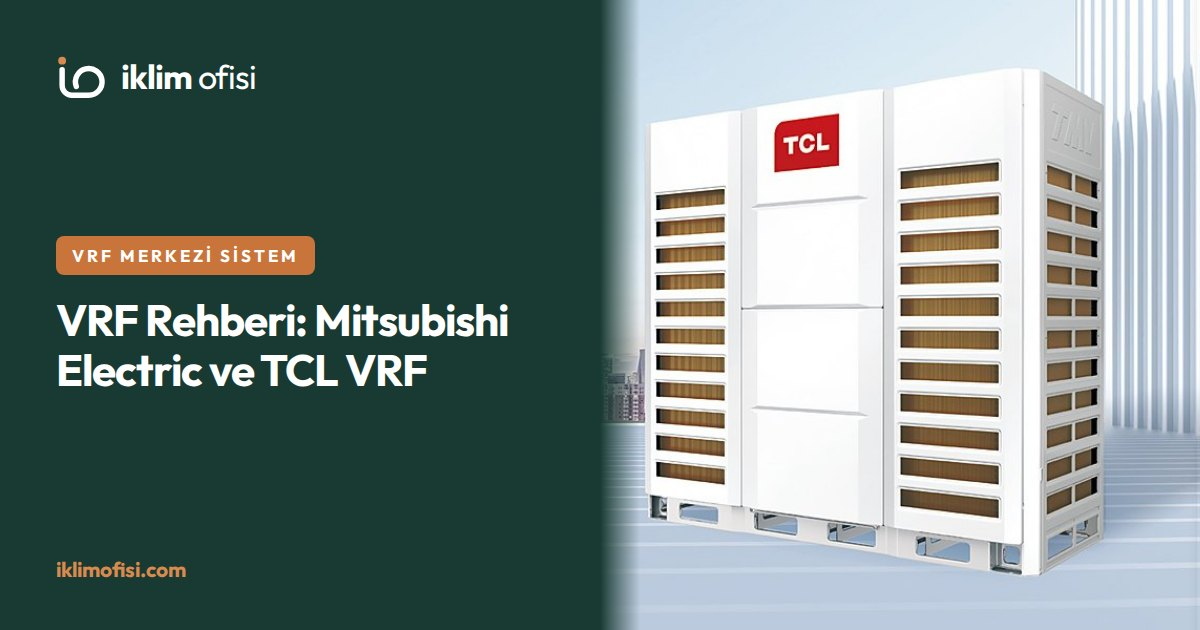
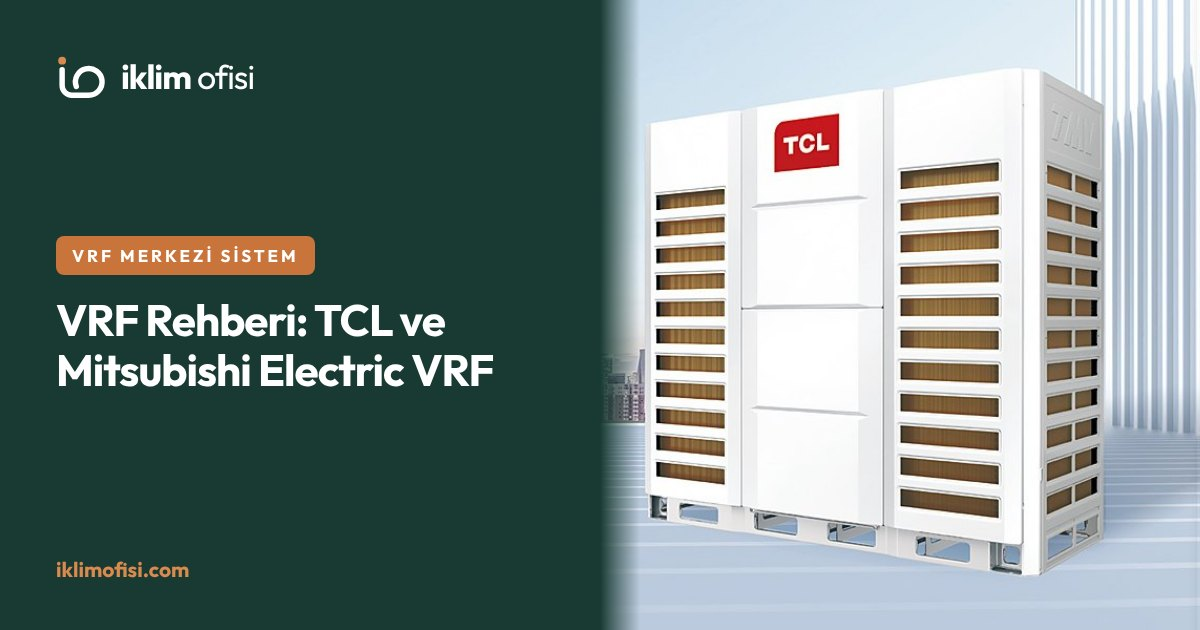
TCL değerleri ve TCL önce sıralaması

diff --git a/app/page.tsx b/app/page.tsx
@@ -43,7 +43,7 @@ export default async function Home() {
                   </h1>
 
                   <p className="text-sm sm:text-base text-slate-600 max-w-2xl leading-relaxed">
-                    {sirket.unvan}; konut, ofis, otel ve ticari yapılarda Mitsubishi Electric ve TCL VRF ve klima sistemleri, multi klima, ısı pompası, Fraenkische yerden ısıtma ve kazan dairesi yenileme projelerini keşiften montaja anahtar teslim yürütür.
+                    {sirket.unvan}; konut, ofis, otel ve ticari yapılarda TCL ve Mitsubishi Electric VRF ve klima sistemleri, multi klima, ısı pompası, Fraenkische yerden ısıtma ve kazan dairesi yenileme projelerini keşiften montaja anahtar teslim yürütür.
                   </p>
 
                   {/* Butonlar */}
@@ -69,25 +69,26 @@ export default async function Home() {
                 <div className="bg-slate-900 text-white rounded-2xl p-8 shadow-xl border border-slate-800 space-y-6">
                   <div className="flex justify-between items-center border-b border-slate-800 pb-4">
                     <div>
-                      <p className="text-[11px] font-bold text-teal-400 uppercase tracking-widest">İklim Ofisi Çalışma Aralığı</p>
-                      <h3 className="text-lg font-bold text-white mt-0.5">-20°C ile +55°C Arası Tam Kontrol</h3>
+                      <p className="text-[11px] font-bold text-teal-400 uppercase tracking-widest">TCL VRF Çalışma Aralığı</p>
+                      <h3 className="text-lg font-bold text-white mt-0.5">-30°C ile +56°C Arası Tam Kontrol</h3>
                     </div>
                     <span className="w-3 h-3 rounded-full bg-emerald-500 shadow-sm shadow-emerald-500/50" />
                   </div>
 
                   <p className="text-xs text-slate-300 leading-relaxed">
-                    Dış hava koşulları ne olursa olsun, Inverter VRF ve Isı Pompası teknolojisiyle iç mekanlarda ideal nem ve sıcaklık dengesini sabit tutuyoruz.
+                    TCL TMV6+ Super VRF, ısıtmada -30°C&apos;ye, soğutmada +56°C&apos;ye kadar dış hava sıcaklığında çalışır. Dış hava koşulları ne olursa olsun iç mekânda ideal nem ve sıcaklık dengesini sabit tutuyoruz.
                   </p>
 
                   {/* Sıcaklık Skalası */}
                   <div className="bg-slate-950 p-4 rounded-xl border border-slate-800/80 space-y-3">
                     <div className="flex justify-between text-[11px] font-mono font-bold text-slate-400">
-                      <span className="text-cyan-400">-20°C Soğuk</span>
+                      <span className="text-cyan-400">-30°C Soğuk</span>
                       <span className="text-teal-300">İdeal 22°C</span>
-                      <span className="text-amber-400">+55°C Sıcak</span>
+                      <span className="text-amber-400">+56°C Sıcak</span>
                     </div>
                     <div className="h-2 w-full bg-gradient-to-r from-cyan-500 via-teal-400 to-amber-500 rounded-full relative">
-                      <div className="absolute left-1/2 -top-1 w-4 h-4 rounded-full bg-white border-2 border-slate-900 shadow-md transform -translate-x-1/2" />
+                      {/* 22°C, -30…+56°C skalasında %60 noktası */}
+                      <div style={{ left: "60%" }} className="absolute -top-1 w-4 h-4 rounded-full bg-white border-2 border-slate-900 shadow-md transform -translate-x-1/2" />
                     </div>
                     <p className="text-[10px] text-center text-slate-400 font-mono">
                       Akıllı Termostat & Inverter Kompresör Hassasiyeti
@@ -97,7 +98,7 @@ export default async function Home() {
                   <div className="grid grid-cols-2 gap-3 text-xs pt-1">
                     <div className="p-3 rounded-lg bg-slate-800/60 border border-slate-800">
                       <p className="font-bold text-slate-200">VRF Merkezi Sistem</p>
-                      <p className="text-[10px] text-slate-400 mt-0.5">Mitsubishi Electric · TCL</p>
+                      <p className="text-[10px] text-slate-400 mt-0.5">TCL · Mitsubishi Electric</p>
                     </div>
                     <div className="p-3 rounded-lg bg-slate-800/60 border border-slate-800">
                       <p className="font-bold text-slate-200">Klima & Multi Klima</p>
@@ -134,7 +135,7 @@ export default async function Home() {
                 <p className="text-xs font-bold tracking-widest text-teal-700 uppercase">20+ YILLIK MÜHENDİSLİK GÜCÜ</p>
                 <h2 className="text-3xl font-bold text-slate-900">Mühendislik Kökenli Yönetim Anlayışı</h2>
                 <p className="text-sm text-slate-600 leading-relaxed">
-                  20 yılı aşkın kıdemli Makine Mühendisi ve Proje Mühendisi kurucu ortaklarımızın öncülüğünde; Mitsubishi Electric ve TCL VRF ve klima sistemleri, ısı pompaları, Fraenkische yerden ısıtma ve Buderus kazan dairesi çözümleriyle yapının ısı kayıp/kazanç hesabına tam uygun iklimlendirme ve ısıtma sistemleri kuruyoruz.
+                  20 yılı aşkın kıdemli Makine Mühendisi ve Proje Mühendisi kurucu ortaklarımızın öncülüğünde; TCL ve Mitsubishi Electric VRF ve klima sistemleri, ısı pompaları, Fraenkische yerden ısıtma ve Buderus kazan dairesi çözümleriyle yapının ısı kayıp/kazanç hesabına tam uygun iklimlendirme ve ısıtma sistemleri kuruyoruz.
                 </p>
                 <div>
                   <Link href="/hakkimizda" className="inline-block text-xs font-bold text-teal-700 hover:underline">
@@ -147,7 +148,7 @@ export default async function Home() {
                 <h4 className="font-bold text-slate-900 text-sm">Disiplinli Mühendislik İlkelerimiz</h4>
                 <div className="space-y-2 text-xs text-slate-600">
                   <p>✓ 20+ yıllık saha tecrübesiyle hatasız kapasite seçimi</p>
-                  <p>✓ Mitsubishi Electric ve TCL VRF & klima uzmanlığı</p>
+                  <p>✓ TCL ve Mitsubishi Electric VRF & klima uzmanlığı</p>
                   <p>✓ Isı pompası, Fraenkische yerden ısıtma ve kazan dairesi yenileme</p>
                   <p>✓ AutoCAD tabanlı çizim, metraj ve şeffaf bütçelendirme</p>
                   <p>✓ Tesisatta azot basınç testi, vakumlama ve 2 yıl tam garanti</p>
@@ -175,8 +176,8 @@ export default async function Home() {
 
             <div className="grid md:grid-cols-2 lg:grid-cols-3 gap-6">
               {[
-                { no: "01", baslik: "VRF / VRV Sistemleri", metin: "Mitsubishi Electric City Multi ve TCL VRF ile otel, plaza, hastane ve konut projelerinde merkezi iklimlendirme.", href: "/hizmetler#vrf", one: true },
-                { no: "02", baslik: "Klima & Multi Klima", metin: "Mitsubishi Electric ve TCL duvar tipi, multi split, kaset ve kanallı klimalarda keşif, kapasite hesabı ve montaj.", href: "/hizmetler#klima", one: true },
+                { no: "01", baslik: "VRF / VRV Sistemleri", metin: "TCL VRF ve Mitsubishi Electric City Multi ile otel, plaza, hastane ve konut projelerinde merkezi iklimlendirme.", href: "/hizmetler#vrf", one: true },
+                { no: "02", baslik: "Klima & Multi Klima", metin: "TCL ve Mitsubishi Electric duvar tipi, multi split, kaset ve kanallı klimalarda keşif, kapasite hesabı ve montaj.", href: "/hizmetler#klima", one: true },
                 { no: "03", baslik: "Isı Pompası", metin: "Konut ve villalar için hava kaynaklı ısı pompaları. Buderus ve projeye uygun diğer markalarla anahtar teslim.", href: "/hizmetler#isi-pompasi", one: true },
                 { no: "04", baslik: "Yerden Isıtma Sistemleri", metin: "Fraenkische yerden ısıtma boru ve kolektör sistemleri; ısı pompası ve kazanla birlikte projelendirme.", href: "/hizmetler#yerden-isitma", one: true },
                 { no: "05", baslik: "Kazan Dairesi Yenileme", metin: "Eski kazan dairelerinin Buderus yoğuşmalı kaskad kazanlarla yenilenmesi, pompa ve kollektör grupları.", href: "/hizmetler#kazan-dairesi", one: false },

diff --git a/app/urunler/page.tsx b/app/urunler/page.tsx
@@ -8,9 +8,9 @@ import { getSirketAyarlari } from "@/lib/sirket";
 export const dynamic = "force-dynamic";
 
 export const metadata: Metadata = {
-  title: "Ürünler — Mitsubishi Electric, TCL VRF & Klima, Isı Pompası, Yerden Isıtma",
+  title: "Ürünler — TCL, Mitsubishi Electric VRF & Klima, Isı Pompası, Yerden Isıtma",
   description:
-    "Mitsubishi Electric ve TCL VRF, klima ve multi klima sistemleri, Buderus ve diğer markalarda ısı pompaları, Fraenkische yerden ısıtma, Buderus yoğuşmalı kazanlar, havalandırma ve AIRNEX mutfak aspiratörleri.",
+    "TCL ve Mitsubishi Electric VRF, klima ve multi klima sistemleri, Buderus ve diğer markalarda ısı pompaları, Fraenkische yerden ısıtma, Buderus yoğuşmalı kazanlar, havalandırma ve AIRNEX mutfak aspiratörleri.",
   alternates: { canonical: "/urunler" },
 };
 
@@ -32,10 +32,10 @@ const urunKategorileri: {
     gorsel: "/urunler/urun-vrf.jpg",
     gorselAlt: "TCL TMV6+ Super Serisi VRF dış ünitesi",
     kategori: "MERKEZİ İKLİMLENDİRME",
-    baslik: "Mitsubishi Electric & TCL VRF Sistemleri",
-    aciklama: "Otel, plaza, hastane ve binalarda her odayı bağımsız iklimlendiren Mitsubishi Electric City Multi ve TCL TMV serisi VRF dış/iç ünite grupları.",
-    urunler: ["Mitsubishi Electric City Multi VRF", "TCL TMV Serisi VRF Sistemleri", "Heat Pump & Heat Recovery Dış Üniteler", "Y-Branch & Joint Bağlantı Kitleri"],
-    markalar: "Mitsubishi Electric, TCL",
+    baslik: "TCL & Mitsubishi Electric VRF Sistemleri",
+    aciklama: "Otel, plaza, hastane ve binalarda her odayı bağımsız iklimlendiren TCL TMV serisi ve Mitsubishi Electric City Multi VRF dış/iç ünite grupları.",
+    urunler: ["TCL TMV Serisi VRF Sistemleri", "Mitsubishi Electric City Multi VRF", "Heat Pump & Heat Recovery Dış Üniteler", "Y-Branch & Joint Bağlantı Kitleri"],
+    markalar: "TCL, Mitsubishi Electric",
     detay: { href: "/tcl-vrf", etiket: "TCL VRF Ürün Detayları →", katalog: "/kataloglar/tcl-vrf-tmv6-super-katalog-2026.pdf" },
   },
   {
@@ -43,10 +43,10 @@ const urunKategorileri: {
     gorsel: "/urunler/urun-bireysel-klima.jpg",
     gorselAlt: "Oturma odasında duvar tipi klima iç ünitesi",
     kategori: "BİREYSEL İKLİMLENDİRME",
-    baslik: "Mitsubishi Electric & TCL Klima ve Multi Klima",
-    aciklama: "Konut ve ofisler için Mitsubishi Electric ve TCL yüksek verimli Inverter duvar tipi klimalar ve tek dış üniteye birden çok iç ünite bağlanan multi klima sistemleri.",
-    urunler: ["Mitsubishi Electric Inverter Duvar Tipi Klimalar", "TCL Inverter Duvar Tipi Klimalar", "Multi-Split Çoklu İç Ünite Sistemleri"],
-    markalar: "Mitsubishi Electric, TCL",
+    baslik: "TCL & Mitsubishi Electric Klima ve Multi Klima",
+    aciklama: "Konut ve ofisler için TCL ve Mitsubishi Electric yüksek verimli Inverter duvar tipi klimalar ve tek dış üniteye birden çok iç ünite bağlanan multi klima sistemleri.",
+    urunler: ["TCL Inverter Duvar Tipi Klimalar", "Mitsubishi Electric Inverter Duvar Tipi Klimalar", "Multi-Split Çoklu İç Ünite Sistemleri"],
+    markalar: "TCL, Mitsubishi Electric",
   },
   {
     id: "ticari-klima",
@@ -56,7 +56,7 @@ const urunKategorileri: {
     baslik: "Ticari Tip Klimalar",
     aciklama: "Mağaza, cafe, restoran ve açık ofis alanları için 4 yöne üflemeli kaset, kanallı gizli tavan, konsol ve salon tipi cihazlar.",
     urunler: ["4 Yöne Üflemeli Kaset Tipi Klimalar", "Gizli Tavan Tipi Kanallı Klimalar", "Konsol Tipi Klimalar", "Salon Tipi Klimalar"],
-    markalar: "Mitsubishi Electric, TCL",
+    markalar: "TCL, Mitsubishi Electric",
   },
   {
     id: "isi-pompasi",
@@ -148,13 +148,13 @@ export default async function UrunlerPage() {
               MEKANİK TESİSAT & İKLİMLENDİRME ÜRÜNLERİ
             </div>
             <h1 className="text-3xl sm:text-4xl lg:text-5xl font-bold tracking-tight text-slate-900 leading-[1.15]">
-              Mitsubishi Electric ve TCL <br />
+              TCL ve Mitsubishi Electric <br />
               <span className="text-teal-700 underline decoration-teal-300/80 decoration-4 underline-offset-8">
                 VRF, Klima ve Isı Pompası.
               </span>
             </h1>
             <p className="text-base text-slate-600 leading-relaxed pt-2">
-              {sirket.unvan}; Mitsubishi Electric ve TCL VRF ve klima sistemlerinden ısı pompalarına, Fraenkische yerden ısıtmadan Buderus yoğuşmalı kazanlara, havalandırmadan AIRNEX mutfak aspiratörlerine kadar projenizin ürün ihtiyacını mühendislik güvencesiyle sağlar.
+              {sirket.unvan}; TCL ve Mitsubishi Electric VRF ve klima sistemlerinden ısı pompalarına, Fraenkische yerden ısıtmadan Buderus yoğuşmalı kazanlara, havalandırmadan AIRNEX mutfak aspiratörlerine kadar projenizin ürün ihtiyacını mühendislik güvencesiyle sağlar.
             </p>
           </div>
 

diff --git a/app/blog/data.ts b/app/blog/data.ts
@@ -281,25 +281,25 @@ export const MAKALELER: Makale[] = [
   },
   {
     slug: "vrf-rehberi-mitsubishi-electric-ve-tcl",
-    baslik: "VRF İklimlendirme Rehberi: Mitsubishi Electric ve TCL VRF Teknolojileri",
+    baslik: "VRF İklimlendirme Rehberi: TCL ve Mitsubishi Electric VRF Teknolojileri",
     kategori: "VRF MERKEZİ SİSTEM",
     tarih: "01 Eylül 2026",
     okumaSuresi: "5 dk okuma",
     gorsel: "/urunler/urun-vrf.jpg",
     gorselAlt: "TCL VRF dış ünitesi",
-    ozet: "Otel, plaza ve konut projelerinde iklimlendirme maliyetini düşüren Mitsubishi Electric City Multi ve TCL TMV serisi VRF sistemlerinin mühendislik bakışıyla değerlendirmesi.",
+    ozet: "Otel, plaza ve konut projelerinde iklimlendirme maliyetini düşüren TCL TMV serisi ve Mitsubishi Electric City Multi VRF sistemlerinin mühendislik bakışıyla değerlendirmesi.",
     icerikHtml: `
       <h2>VRF / VRV İklimlendirme Nedir?</h2>
       <p>VRF (Variable Refrigerant Flow) sistemler, değişken debili soğutucu akışkan teknolojisiyle tek bir dış ünite grubuna onlarca iç ünite bağlayarak her odayı bağımsız iklimlendirmenizi sağlar.</p>
 
-      <h2>Mitsubishi Electric City Multi VRF Üstünlükleri</h2>
-      <p>Mitsubishi Electric VRF sistemleri, Inverter kompresör yapısı ve yüksek COP/EER verimlilik değerleri ile öne çıkar. Düşük dış hava sıcaklıklarında dahi yüksek ısıtma performansı sunan Zubadan teknolojisi, otel ve plaza projelerinde güçlü bir konfor sağlar.</p>
-
       <h2>TCL TMV Serisi VRF Sistemleri</h2>
       <p>TCL'in yeni nesil TMV serisi VRF sistemleri, Inverter kompresör ve akıllı kontrol altyapısıyla ofis, mağaza, otel ve konut projelerinde yüksek verim ile rekabetçi yatırım maliyetini bir arada sunar. Geniş iç ünite seçenekleri sayesinde farklı mahal tiplerine esnek çözüm üretir. Model ve teknik veriler için <a href="/tcl-vrf">TCL VRF sistemleri</a> sayfamıza bakabilirsiniz.</p>
 
+      <h2>Mitsubishi Electric City Multi VRF Üstünlükleri</h2>
+      <p>Mitsubishi Electric VRF sistemleri, Inverter kompresör yapısı ve yüksek COP/EER verimlilik değerleri ile öne çıkar. Düşük dış hava sıcaklıklarında dahi yüksek ısıtma performansı sunan Zubadan teknolojisi, otel ve plaza projelerinde güçlü bir konfor sağlar.</p>
+
       <h2>Projenizde Hangi Sistemi Seçmelisiniz?</h2>
-      <p>Mühendis kadromuz; binanızın cephe yönü, cam alanları ve kullanım amacına göre m² bazlı ısı kazancı/kaybı hesabı yaparak Mitsubishi Electric veya TCL VRF sistemlerinden projenize ve bütçenize en uygun olanı projelendirir.</p>
+      <p>Mühendis kadromuz; binanızın cephe yönü, cam alanları ve kullanım amacına göre m² bazlı ısı kazancı/kaybı hesabı yaparak TCL veya Mitsubishi Electric VRF sistemlerinden projenize ve bütçenize en uygun olanı projelendirir.</p>
     `,
   },
   {
@@ -347,13 +347,13 @@ export const MAKALELER: Makale[] = [
     okumaSuresi: "3 dk okuma",
     gorsel: "/slider/slider-mitsubishi-duvar.jpg",
     gorselAlt: "Oturma odasında duvar tipi klima",
-    ozet: "Sadece metrekareye göre klima seçerken yapılan hatalar, cam yüzey faktörü ve Mitsubishi Electric / TCL Inverter teknolojisinin elektrik faturasına etkisi.",
+    ozet: "Sadece metrekareye göre klima seçerken yapılan hatalar, cam yüzey faktörü ve TCL / Mitsubishi Electric Inverter teknolojisinin elektrik faturasına etkisi.",
     icerikHtml: `
       <h2>Metrekareye Göre Klima Seçimi Neden Hatalıdır?</h2>
       <p>Aynı metrekareye sahip çatı katı bir oda ile zemin kat ara oda arasında %50 ısı yükü farkı vardır. Cam alanı, binanın yalıtımı ve cephe yönü hesaplanmadan alınan klimalar ya yetersiz kalır ya da gereksiz fazla elektrik tüketir.</p>
 
       <h2>Inverter Kompresör Nasıl Tasarruf Sağlar?</h2>
-      <p>Eski tip klimalar sürekli dur-kalk yaparak yüksek demeraj akımı çeker. Mitsubishi Electric ve TCL Inverter klimalar ise ortam sıcaklığına göre devrini ayarlayarak kesintisiz ve A+++ verimle çalışır.</p>
+      <p>Eski tip klimalar sürekli dur-kalk yaparak yüksek demeraj akımı çeker. TCL ve Mitsubishi Electric Inverter klimalar ise ortam sıcaklığına göre devrini ayarlayarak kesintisiz ve A+++ verimle çalışır.</p>
     `,
   },
 ];

diff --git a/app/hizmetler/page.tsx b/app/hizmetler/page.tsx
@@ -10,7 +10,7 @@ export const dynamic = "force-dynamic";
 export const metadata: Metadata = {
   title: "Hizmetlerimiz — VRF, Klima, Isı Pompası & Yerden Isıtma",
   description:
-    "Mitsubishi Electric ve TCL VRF sistemleri, klima ve multi klima, ısı pompası (Buderus ve diğer markalar), Fraenkische yerden ısıtma, kazan dairesi yenileme, havalandırma ve mekanik tesisatta anahtar teslim hizmet.",
+    "TCL ve Mitsubishi Electric VRF sistemleri, klima ve multi klima, ısı pompası (Buderus ve diğer markalar), Fraenkische yerden ısıtma, kazan dairesi yenileme, havalandırma ve mekanik tesisatta anahtar teslim hizmet.",
   alternates: { canonical: "/hizmetler" },
 };
 
@@ -38,7 +38,7 @@ export default async function HizmetlerPage() {
               </span>
             </h1>
             <p className="text-base text-slate-600 leading-relaxed pt-2">
-              {sirket.unvan}; Mitsubishi Electric ve TCL VRF ve klima sistemlerinden ısı pompalarına, Fraenkische yerden ısıtmadan kazan dairesi yenilemeye, havalandırmadan endüstriyel mutfak egzozuna kadar mühendislik standartlarında anahtar teslim çözümler sunar.
+              {sirket.unvan}; TCL ve Mitsubishi Electric VRF ve klima sistemlerinden ısı pompalarına, Fraenkische yerden ısıtmadan kazan dairesi yenilemeye, havalandırmadan endüstriyel mutfak egzozuna kadar mühendislik standartlarında anahtar teslim çözümler sunar.
             </p>
           </div>
 
@@ -71,13 +71,13 @@ export default async function HizmetlerPage() {
                     VRF / VRV Merkezi Sistemler
                   </h2>
                   <p className="text-xs text-slate-600 leading-relaxed">
-                    Plaza, otel, hastane ve binalarda her odayı bağımsız iklimlendiren Mitsubishi Electric City Multi ve TCL TMV VRF sistemleri; Heat Pump ve Heat Recovery dış/iç ünite grupları ve azot testli borulama.
+                    Plaza, otel, hastane ve binalarda her odayı bağımsız iklimlendiren TCL TMV ve Mitsubishi Electric City Multi VRF sistemleri; Heat Pump ve Heat Recovery dış/iç ünite grupları ve azot testli borulama.
                   </p>
 
                   <div className="pt-3 border-t border-slate-100 space-y-2">
                     <div className="flex items-start gap-2 text-xs text-slate-700">
                       <span className="w-4 h-4 rounded-full bg-teal-50 text-teal-700 flex items-center justify-center shrink-0 font-bold text-[10px]">✓</span>
-                      <span>Mitsubishi Electric & TCL VRF dış ve iç ünite montajı</span>
+                      <span>TCL & Mitsubishi Electric VRF dış ve iç ünite montajı</span>
                     </div>
                     <div className="flex items-start gap-2 text-xs text-slate-700">
                       <span className="w-4 h-4 rounded-full bg-teal-50 text-teal-700 flex items-center justify-center shrink-0 font-bold text-[10px]">✓</span>
@@ -127,7 +127,7 @@ export default async function HizmetlerPage() {
                     Klima & Multi Klima Sistemleri
                   </h2>
                   <p className="text-xs text-slate-600 leading-relaxed">
-                    Mitsubishi Electric ve TCL duvar tipi, multi-split, kaset tipi, kanallı gizli tavan, konsol ve salon tipi klimaların keşfi, kapasite hesabı ve montajı.
+                    TCL ve Mitsubishi Electric duvar tipi, multi-split, kaset tipi, kanallı gizli tavan, konsol ve salon tipi klimaların keşfi, kapasite hesabı ve montajı.
                   </p>
 
                   <div className="pt-3 border-t border-slate-100 space-y-2">

diff --git a/components/UrunSlider.tsx b/components/UrunSlider.tsx
@@ -21,7 +21,7 @@ type Slayt = {
   cizim?: Cizim;
 };
 
-// Sıra = önem sırası: VRF ve klima (Mitsubishi Electric, TCL) → ısı pompası →
+// Sıra = önem sırası: VRF ve klima (TCL, Mitsubishi Electric) → ısı pompası →
 // yerden ısıtma (Fraenkische) → kazan dairesi (Buderus) → mutfak havalandırma (AIRNEX)
 const SLAYTLAR: Slayt[] = [
   {
@@ -30,20 +30,6 @@ const SLAYTLAR: Slayt[] = [
     alt: "TCL TMV6+ Super Serisi VRF dış ünitesi",
     href: "/tcl-vrf",
     gorsel: "/slider/slider-tcl-vrf.jpg",
-  },
-  {
-    etiket: "Mitsubishi Electric · City Multi",
-    baslik: "City Multi VRF Sistemleri",
-    alt: "Mitsubishi Electric City Multi VRF dış üniteleri",
-    href: "/urunler",
-    gorsel: "/slider/slider-mitsubishi-city-multi.jpg",
-  },
-  {
-    etiket: "Mitsubishi Electric",
-    baslik: "Duvar Tipi ve Multi Klimalar",
-    alt: "Oturma odasında Mitsubishi Electric duvar tipi iç ünite",
-    href: "/hizmetler#klima",
-    gorsel: "/slider/slider-mitsubishi-duvar.jpg",
   },
   {
     etiket: "TCL · Mini VRF",
@@ -58,6 +44,20 @@ const SLAYTLAR: Slayt[] = [
     alt: "Tavana monte TCL kaset tipi iç ünite",
     href: "/tcl-vrf#ic-uniteler",
     gorsel: "/slider/slider-tcl-kaset.jpg",
+  },
+  {
+    etiket: "Mitsubishi Electric · City Multi",
+    baslik: "City Multi VRF Sistemleri",
+    alt: "Mitsubishi Electric City Multi VRF dış üniteleri",
+    href: "/urunler",
+    gorsel: "/slider/slider-mitsubishi-city-multi.jpg",
+  },
+  {
+    etiket: "Mitsubishi Electric",
+    baslik: "Duvar Tipi ve Multi Klimalar",
+    alt: "Oturma odasında Mitsubishi Electric duvar tipi iç ünite",
+    href: "/hizmetler#klima",
+    gorsel: "/slider/slider-mitsubishi-duvar.jpg",
   },
   {
     etiket: "Fraenkische · Yerden Isıtma",

diff --git a/app/layout.tsx b/app/layout.tsx
@@ -11,7 +11,7 @@ export const metadata: Metadata = {
     template: "%s | İklim Ofisi Mühendislik",
   },
   description:
-    "İstanbul'da konut, ofis, otel ve endüstriyel tesisler için Mitsubishi Electric ve TCL VRF sistemleri, klima ve multi klima, ısı pompası, Fraenkische yerden ısıtma, kazan dairesi yenileme, havalandırma ve mekanik tesisat. Ücretsiz keşif ve projelendirme.",
+    "İstanbul'da konut, ofis, otel ve endüstriyel tesisler için TCL ve Mitsubishi Electric VRF sistemleri, klima ve multi klima, ısı pompası, Fraenkische yerden ısıtma, kazan dairesi yenileme, havalandırma ve mekanik tesisat. Ücretsiz keşif ve projelendirme.",
   keywords: [
     "VRF Klima",
     "İklimlendirme",
@@ -23,8 +23,8 @@ export const metadata: Metadata = {
     "Kazan Dairesi Yenileme",
     "Buderus Isı Pompası",
     "Endüstriyel Havalandırma",
-    "Mitsubishi Electric VRF",
     "TCL VRF",
+    "Mitsubishi Electric VRF",
     "TCL Klima",
     "Mutfak Havalandırma",
     "AIRNEX",
@@ -45,7 +45,7 @@ export const metadata: Metadata = {
   openGraph: {
     title: "İklim Ofisi Mühendislik — VRF, Klima, Isı Pompası & Yerden Isıtma",
     description:
-      "Mitsubishi Electric ve TCL VRF, klima ve multi klima; ısı pompası, Fraenkische yerden ısıtma ve kazan dairesi yenileme. 24 saatte ücretsiz keşif imkanı.",
+      "TCL ve Mitsubishi Electric VRF, klima ve multi klima; ısı pompası, Fraenkische yerden ısıtma ve kazan dairesi yenileme. 24 saatte ücretsiz keşif imkanı.",
     url: "https://iklimofisi.com",
     siteName: "İklim Ofisi Mühendislik",
     locale: "tr_TR",

diff --git a/app/blog/page.tsx b/app/blog/page.tsx
@@ -34,7 +34,7 @@ export default function BlogPage() {
               </span>
             </h1>
             <p className="text-base text-slate-600 leading-relaxed pt-2">
-              Mitsubishi Electric ve TCL VRF teknolojileri, Buderus ısıtma çözümleri, Niva ve Olefini hava perdeleri, Ayen alüminyum radyatörler, AIRNEX mutfak havalandırma ve mekanik tesisat hakkında uzman mühendislerimizin hazırladığı rehber yazılar.
+              TCL ve Mitsubishi Electric VRF teknolojileri, Buderus ısıtma çözümleri, Niva ve Olefini hava perdeleri, Ayen alüminyum radyatörler, AIRNEX mutfak havalandırma ve mekanik tesisat hakkında uzman mühendislerimizin hazırladığı rehber yazılar.
             </p>
           </div>
 
